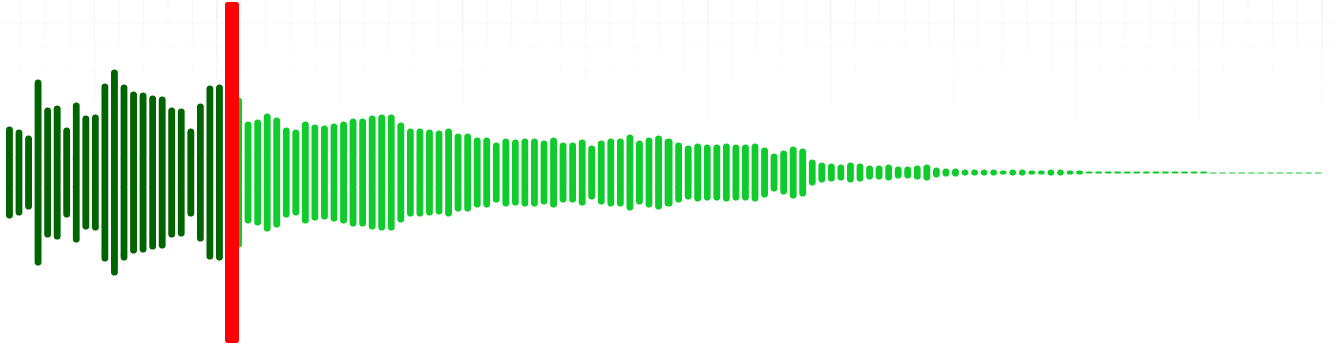
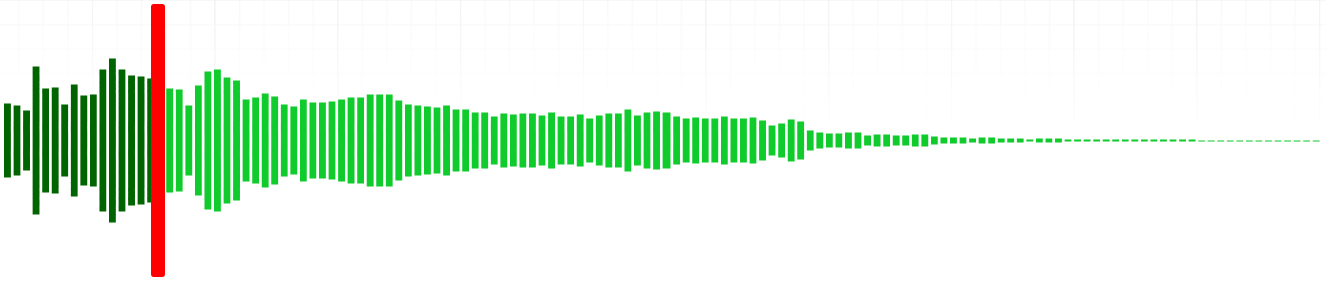
improve readme

Changed region(s): [[0.0, 0.0, 1.0, 1.0]]

diff --git a/setup.py b/setup.py
@@ -5,7 +5,7 @@ with open('README.md', encoding='utf-8') as f:
 
 setup(
     name='mkdocs-wavesurfer',
-    version='0.0.4',
+    version='0.0.5',
     author='Anders Eskildsen',
     author_email='dev@anderseskildsen.eu',
     url='https://github.com/aeskildsen/mkdocs-wavesurfer',

diff --git a/README.md b/README.md
@@ -2,7 +2,7 @@
 
 This is a plugin for [mkdocs](https://www.mkdocs.org/) that adds a nice waveform display for `<audio>` elements using [wavesurfer.js](https://wavesurfer.xyz/).
 
-This plugin depends on [mkdocs-audiotag](https://github.com/aeskildsen/mkdocs-audiotag).
+This plugin requires [mkdocs-audiotag](https://github.com/aeskildsen/mkdocs-audiotag).
 
 ## Quick start
 
@@ -43,17 +43,21 @@ plugins:
   - mkdocs-audiotag
   - mkdocs-wavesurfer:
       height: 200
-      wave-color: "#0fcb2bff"
-      progress-color: rgb(0, 100, 0)
-      cursor-color: red
-      cursor-width: 10
-      bar-width: 3
-      bar-gap: 1
+      wave_color: "#0fcb2bff"
+      progress_color: rgb(0, 100, 0)
+      cursor_color: red
+      cursor_width: 10
+      bar_width: 5
+      bar_gap: 2
 ```
 
 ![Waveform canvas generated with the configuration shown above](./waveform-wavesurfer.png)
 
-You only need to specify the options you want to override, as others will use default values. Colors can be specified using hex values, rgb or color names as in CSS.
+Note:
+
+- **Defaults:** You only need to specify the options you want to override, as others will use default values.
+- **Colors:** Can be specified using hex values, rgb or color names as in CSS, as shown in the example above.
+- **Case:** We use snake case in `mkdocs.yml` for consistency, as opposed to the wavesurfer.js docs which work with javascript and camel case.
 
 ### Use with mkdocs-material
 
@@ -63,16 +67,16 @@ The plugin can adapt to the color set by [mkdocs-material](https://squidfunk.git
 plugins:
   - mkdocs-audiotag
   - mkdocs-wavesurfer:
-      use-mkdocs-material-color: true
+      use_mkdocs-material_color: true
 ```
 
-When this is enabled, the options `wave-color` and `progress-color` are overwritten, and the plugin will log a warning.
+When this is enabled, the options `wave_color` and `progress_color` are overwritten, and the plugin will log a warning if they are present in `mkdocs.yml`.
 
 ### Autoconfigured options
 
-Please note that the following options get populated automatically by the plugin and cannot be specified in the config:
+Please note that the following wavesurfer options are populated automatically by the plugin and cannot be specified in the config:
 
-- `media-controls`
+- `media_controls`
 - `media`
 - `url`
 - `container`
@@ -88,8 +92,38 @@ plugins:
 
 ### Default config values
 
+### Default config values
 
+Below are the default configuration values:
 
+```yaml
+plugins:
+  - mkdocs-wavesurfer:
+      height: 128
+      width: "100%"
+      split_channels: false
+      normalize: false
+      wave_color: "#ff4e00"
+      progress_color: "#dd5e98"
+      cursor_color: "#ddd5e9"
+      cursor_width: 2
+      bar_width: null
+      bar_gap: null
+      bar_radius: null
+      bar_height: null
+      bar_align: ""
+      min_px_per_sec: 1
+      fill_parent: true
+      autoplay: false
+      interact: true
+      drag_to_seek: false
+      hide_scrollbar: false
+      audio_rate: 1.0
+      auto_scroll: true
+      auto_center: true
+      sample_rate: 8000
+      use_mkdocs_material_color: false
+```
 
 ## License
 
